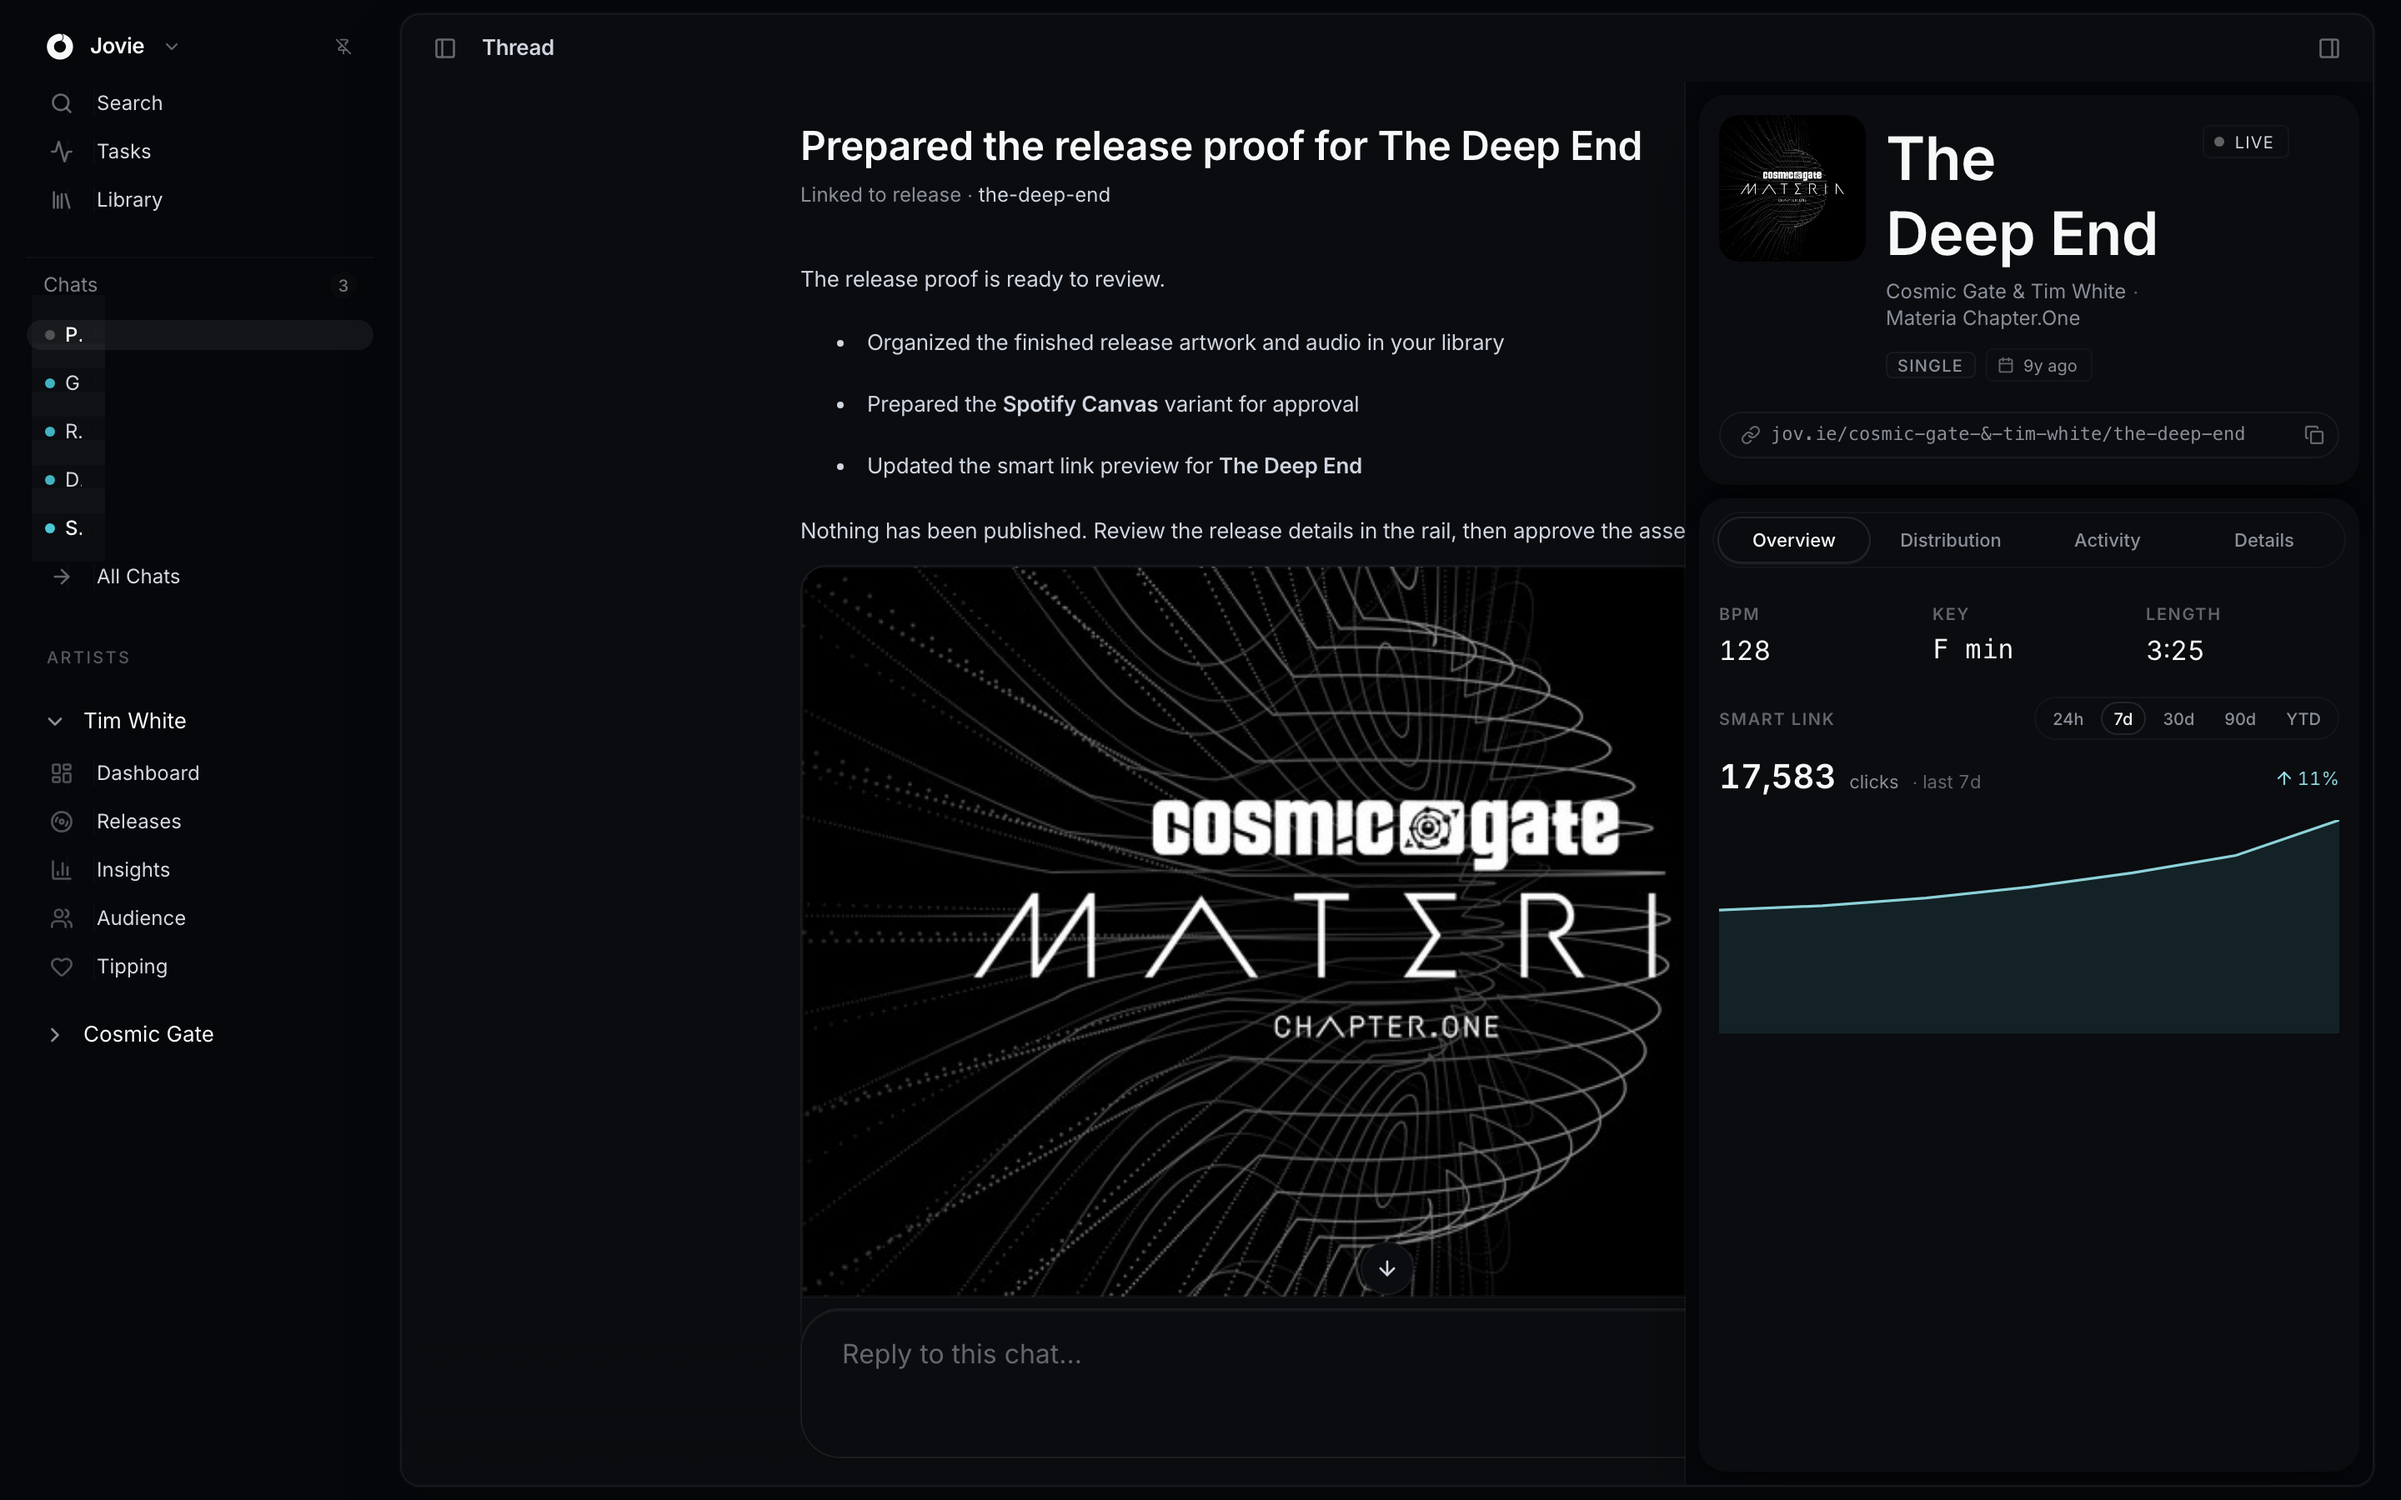
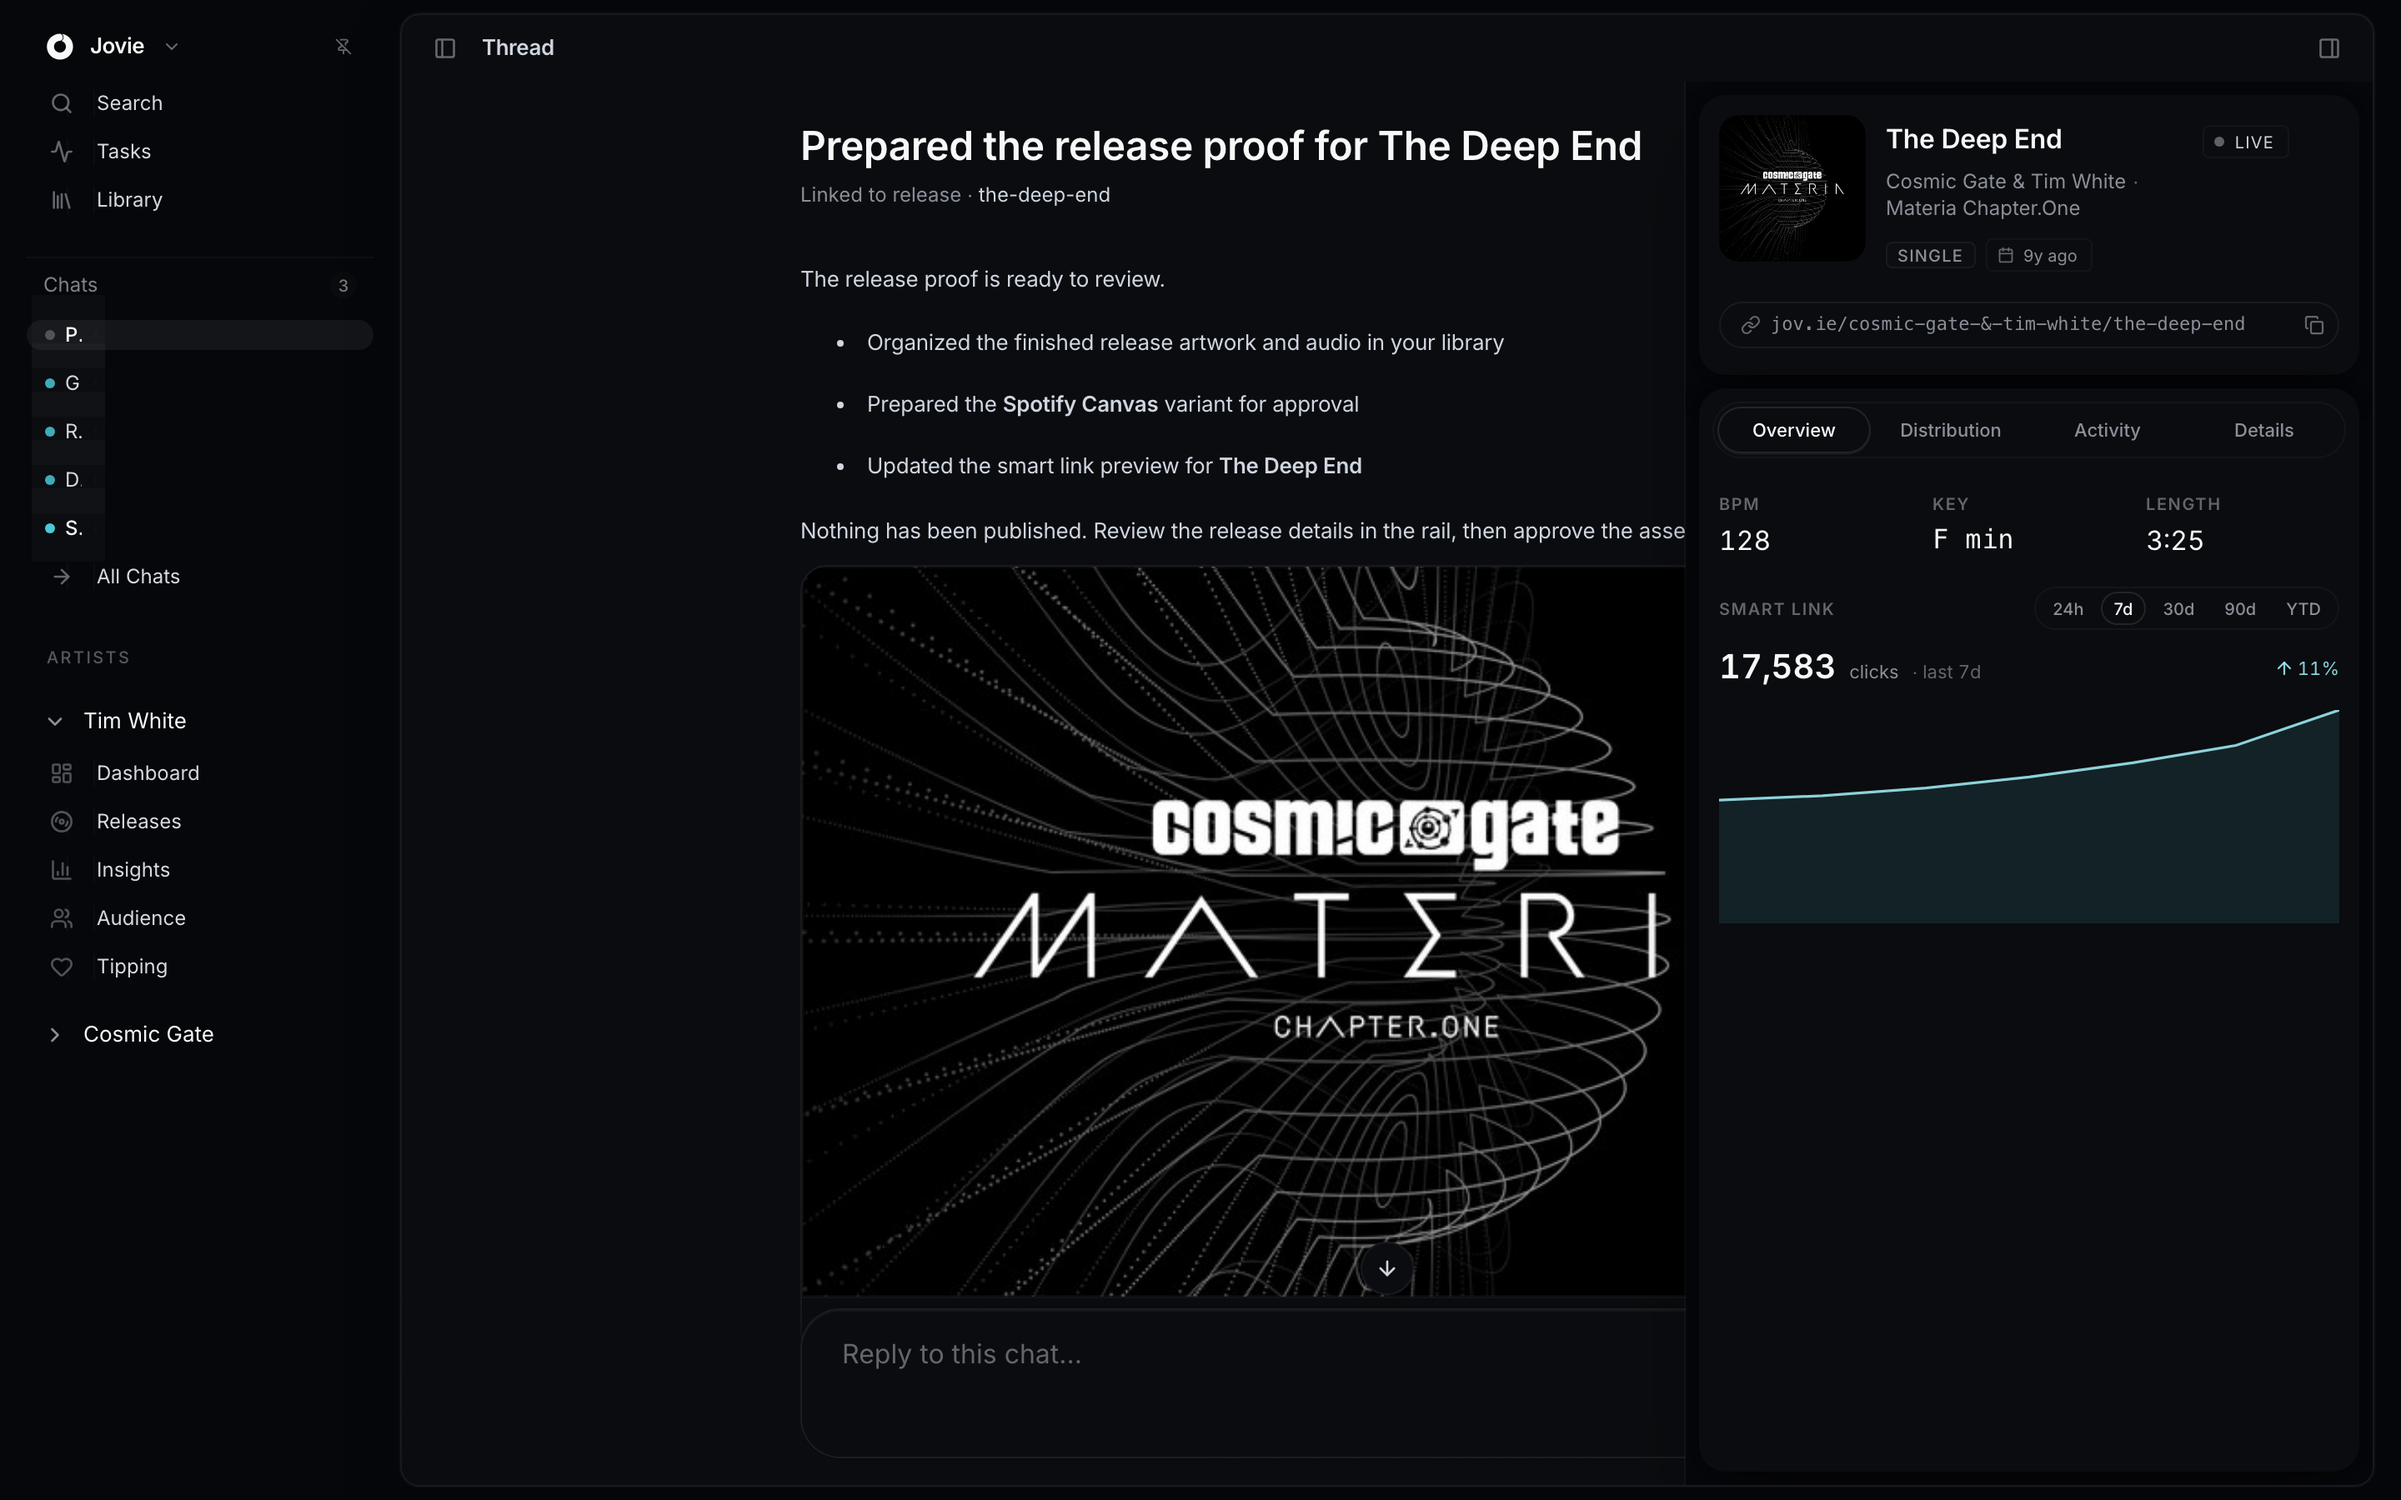
style(design): keep proof title on one line (finding-002)

diff --git a/apps/web/components/shell/DrawerHero.tsx b/apps/web/components/shell/DrawerHero.tsx
@@ -11,6 +11,7 @@ import {
 } from '@/components/atoms/StableHeaderSlots';
 import { cn } from '@/lib/utils';
 import { Tooltip } from './Tooltip';
+import './DrawerHero.css';
 
 type DrawerHeroMetaOverflow = 'wrap' | 'scroll';
 
@@ -268,7 +269,7 @@ export function DrawerHero({
             <h2
               title={title}
               className={cn(
-                'flex-1 min-w-0 text-base font-semibold text-primary-token leading-tight',
+                'drawer-hero__title flex-1 min-w-0 font-semibold text-primary-token leading-tight',
                 resolvedTitleLineClamp &&
                   STABLE_HEADER_LINE_CLAMP_CLASSNAME[resolvedTitleLineClamp],
                 stableLayout &&

diff --git a/apps/web/app/exp/shell-v1/ShellV1ExperimentClient.tsx b/apps/web/app/exp/shell-v1/ShellV1ExperimentClient.tsx
@@ -5413,6 +5413,7 @@ function DrawerHero({
   return (
     <ProductionDrawerHero
       title={release.title}
+      titleLineClamp={1}
       subtitle={
         <>
           <EntityHoverLink

diff --git a/apps/web/components/shell/DrawerHero.css b/apps/web/components/shell/DrawerHero.css
@@ -1,0 +1,3 @@
+.drawer-hero__title {
+  font-size: var(--text-base);
+}
